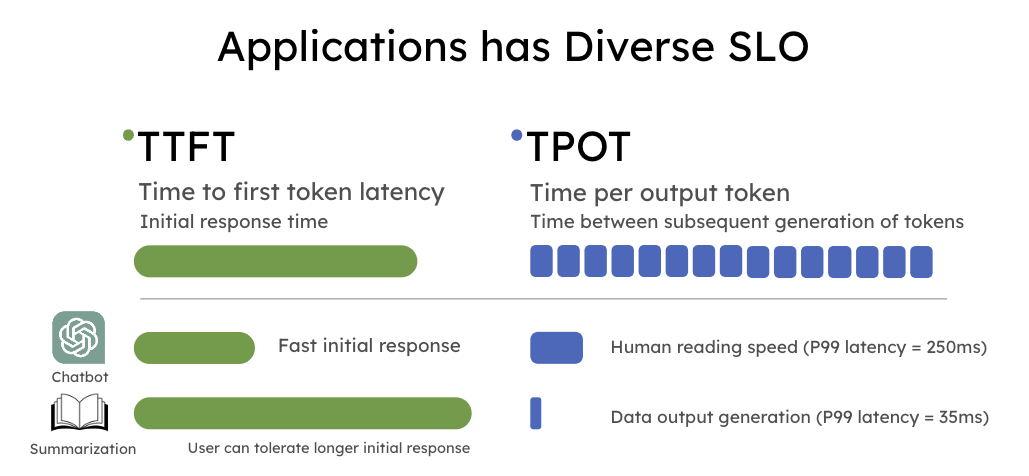
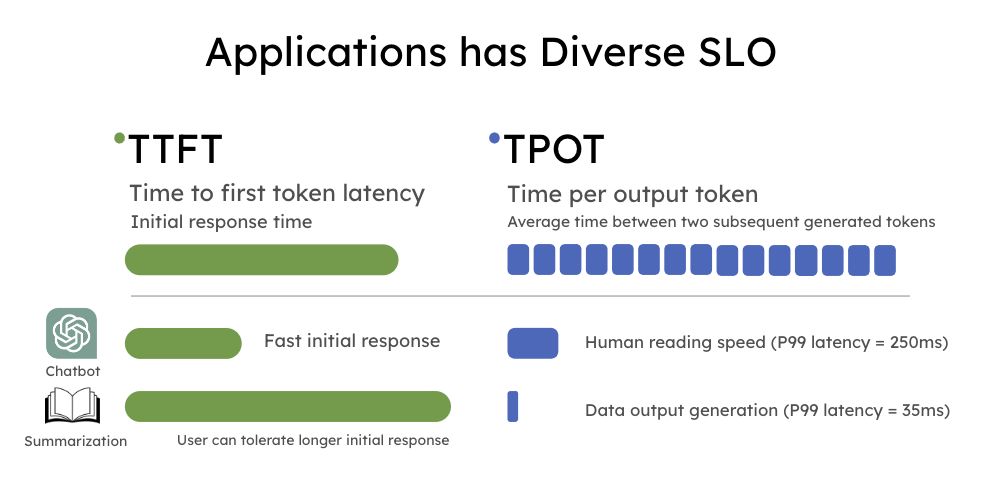
Fix tpot minor def

diff --git a/content/blogs/distserve/index.md b/content/blogs/distserve/index.md
@@ -61,7 +61,7 @@ Let’s summarize the terms introduced in the subsection:
 - **Prefill:** The first phase of LLM inference that digests all the input tokens, populates the KV Cache, and generates the first output token.
 - **Decode:** The subsequent phase that generates token-by-token until termination.
 - **Time-to-first-token (TTFT):** The time it takes for an LLM serving system to generate the first token in response to a user request. 
-- **Time-per-output-token (TPOT):** The time it takes for an LLM serving system to generate subsequent tokens in response to a user request.
+- **Time-per-output-token (TPOT):** The average time it takes for an LLM serving system to generate subsequent tokens in response to a user request.
 
 
 
